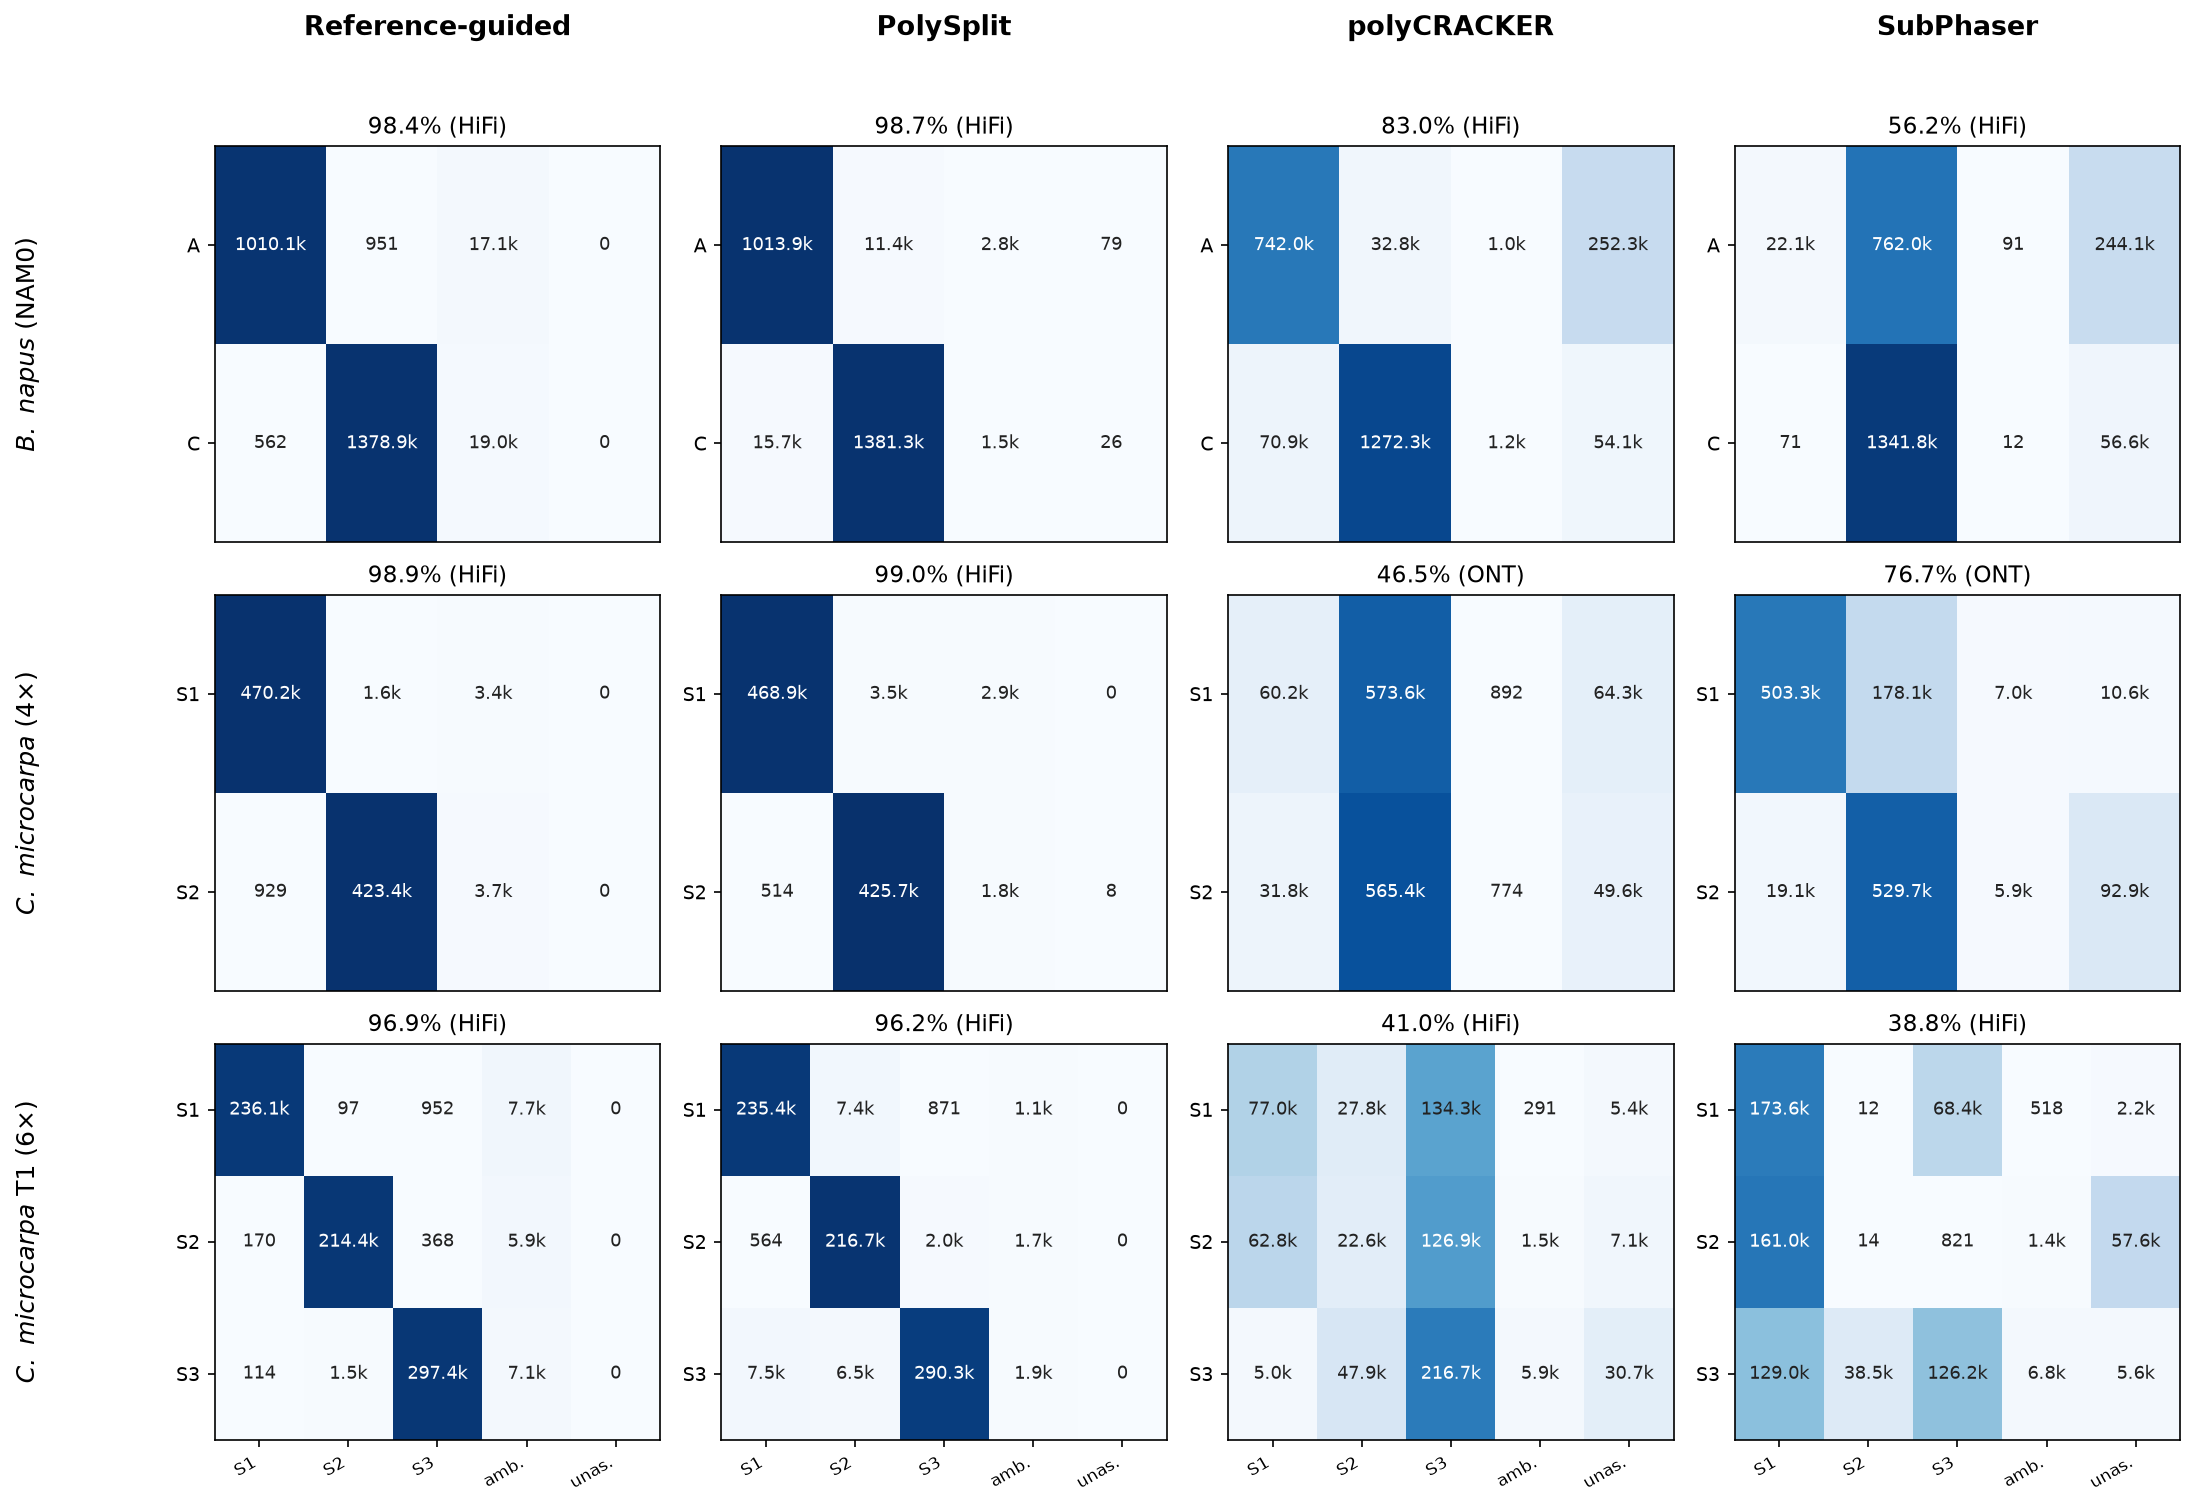
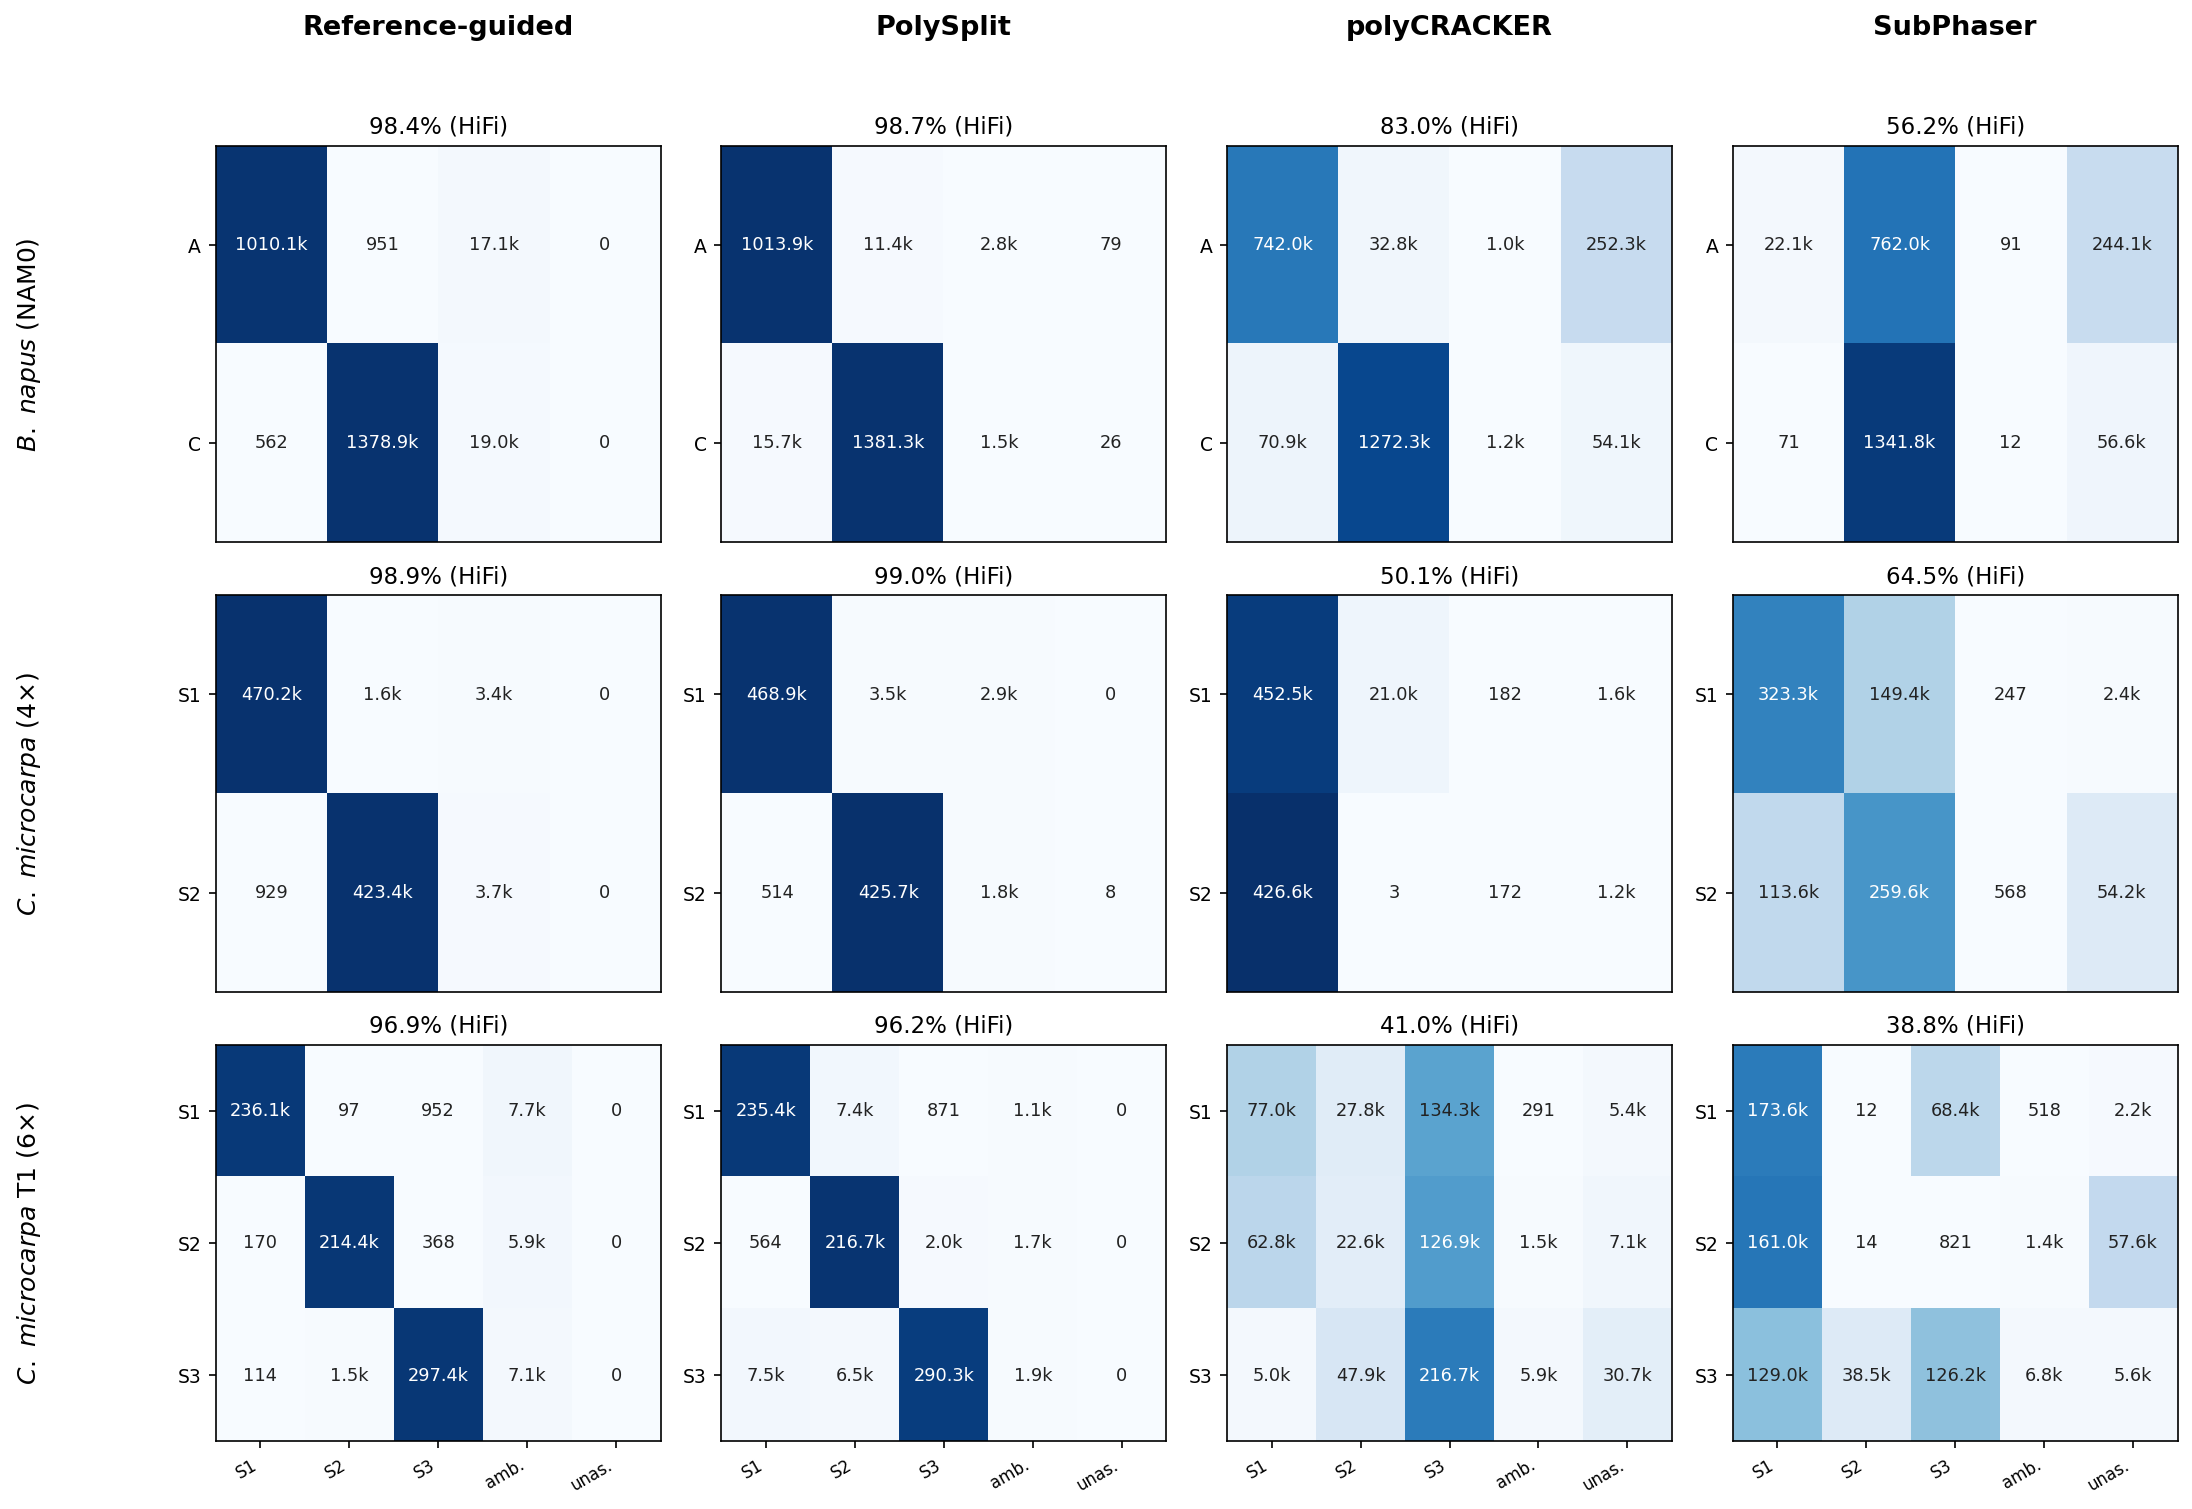
add Figure S5 (PolySplit vs reference-guided, both chemistries); FigS4 baselines all HiFi

diff --git a/SUPPLEMENTARY.md b/SUPPLEMENTARY.md
@@ -1,7 +1,7 @@
 # PolySplit-Allo - Supplementary Materials
 
 This page hosts the supplementary material linked from the manuscript. Supplementary figure and
-table numbering follows the manuscript order (Figures S1–S4, Tables S1–S4). Figures live in
+table numbering follows the manuscript order (Figures S1–S5, Tables S1–S5). Figures live in
 `figures/`; place the pristine PNGs there (do not pass them through any text processor).
 
 ## Supplementary Figures
@@ -47,16 +47,25 @@ The *B. napus* (NAM0) panels are left blank pending its assembly runs.
 ### Figure S4. Read-level confusion matrices across methods and species
 <p align="center"><img src="figures/FigS4_confusion_all.png" alt="Read-level confusion matrices, three species by four methods" width="100%"></p>
 
-Rows are the three allopolyploids; columns are the four methods, with PolySplit shown at
-its best chemistry (HiFi here). Within each panel, rows are the true subgenome and columns the
-predicted label (subgenomes, ambiguous, unassigned); each cell gives the number of reads (the cell
-colour is the row fraction, so the diagonal stands out), and the panel header gives the read
-accuracy and chemistry. For the methods that
-emit unlabelled clusters (polyCRACKER, SubPhaser), clusters are mapped to subgenomes by the best
-one-to-one assignment to truth. **PolySplit** concentrates on the diagonal (99.0% tetraploid,
-96.2% hexaploid, using no reference), whereas **polyCRACKER** collapses the subgenomes into a single
-cluster (46.5%, 41.0%) and **SubPhaser** leaks or scrambles them (76.7%, 38.8%). The reference-guided
-panels and the entire *B. napus* (NAM0) row are left blank pending those runs.
+Rows are the three allopolyploids; columns are the four methods, all shown at HiFi. Within each panel,
+rows are the true subgenome and columns the predicted label (subgenomes, ambiguous, unassigned);
+each cell gives the number of reads (the cell colour is the row fraction, so the diagonal stands
+out), and the panel header gives the read accuracy and chemistry. For the methods that emit
+unlabelled clusters (polyCRACKER, SubPhaser), clusters are mapped to subgenomes by the best
+one-to-one assignment to truth. **PolySplit** concentrates on the diagonal (98.7% *B. napus*, 99.0%
+tetraploid, 96.2% hexaploid, using no reference), whereas **polyCRACKER** collapses the subgenomes
+into a single cluster (83.0%, 50.1%, 41.0%) and **SubPhaser** leaks or scrambles them
+(56.2%, 64.5%, 38.8%). Figure S5 shows PolySplit and the reference-guided baseline on both chemistries.
+
+### Figure S5. PolySplit vs. the reference-guided baseline, across both chemistries
+<p align="center"><img src="figures/FigS5_confusion_chem.png" alt="Confusion matrices: PolySplit vs reference-guided, ONT and HiFi, three genomes" width="70%"></p>
+
+The two exact-$k$-mer methods on all three allopolyploids, with one row per chemistry (ONT and HiFi)
+per genome. Rows are the true subgenome, columns the predicted label; the cell colour is the row
+fraction and the panel header gives read accuracy against the same chromosome-anchored truth.
+PolySplit (reference-free) matches or exceeds the reference-guided signature scan on every genome and
+chemistry, and the gap is largest on error-prone ONT reads (e.g. *B. napus* 95.6% vs 81.7%): the
+read-level scan leaves many ONT reads ambiguous, whereas assembling first restores their subgenome.
 
 ## Supplementary Tables
 
